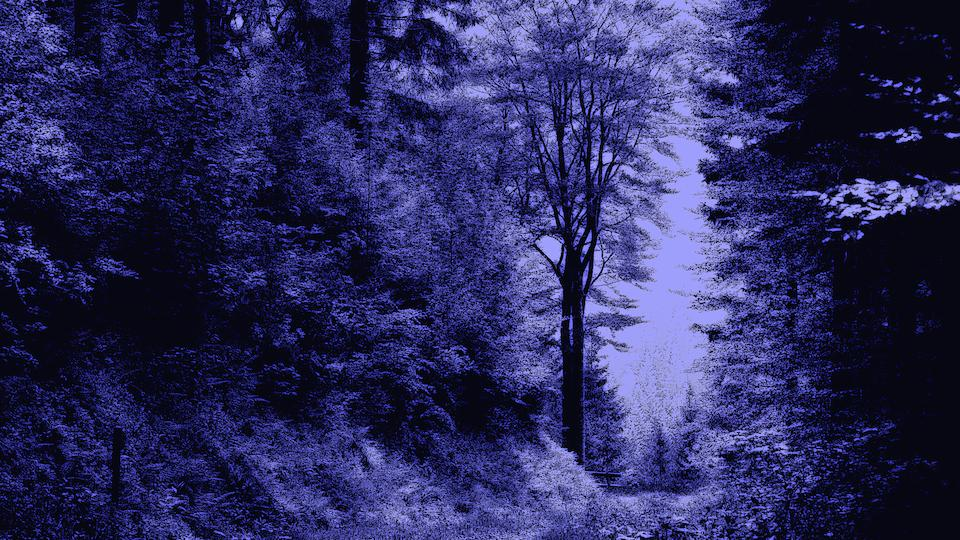
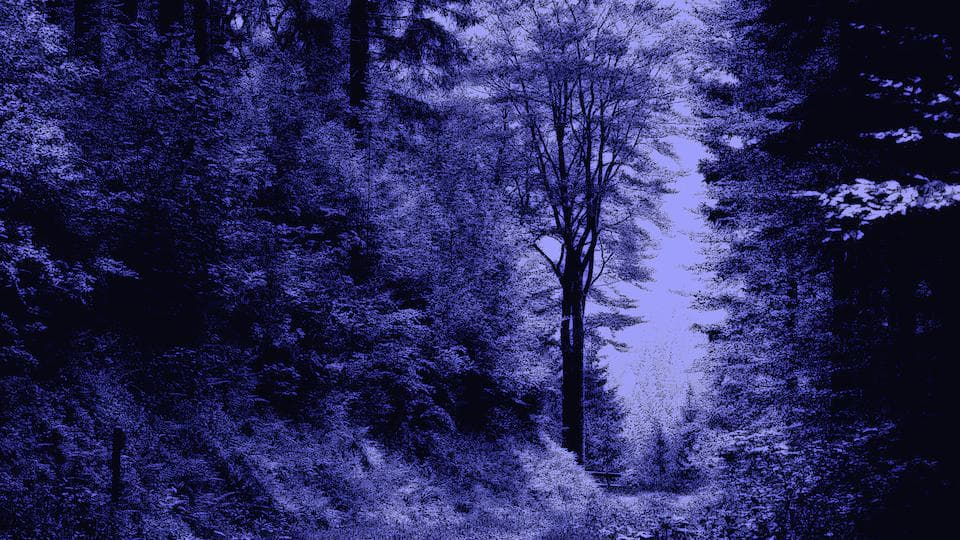
improve wallpaper loading

diff --git a/src/routes/+layout.svelte b/src/routes/+layout.svelte
@@ -2,4 +2,8 @@
 	import '../app.postcss'
 </script>
 
+<svelte:head>
+	<link rel="preload" as="image" href="/wallpaper.jpg" />
+</svelte:head>
+
 <slot />
